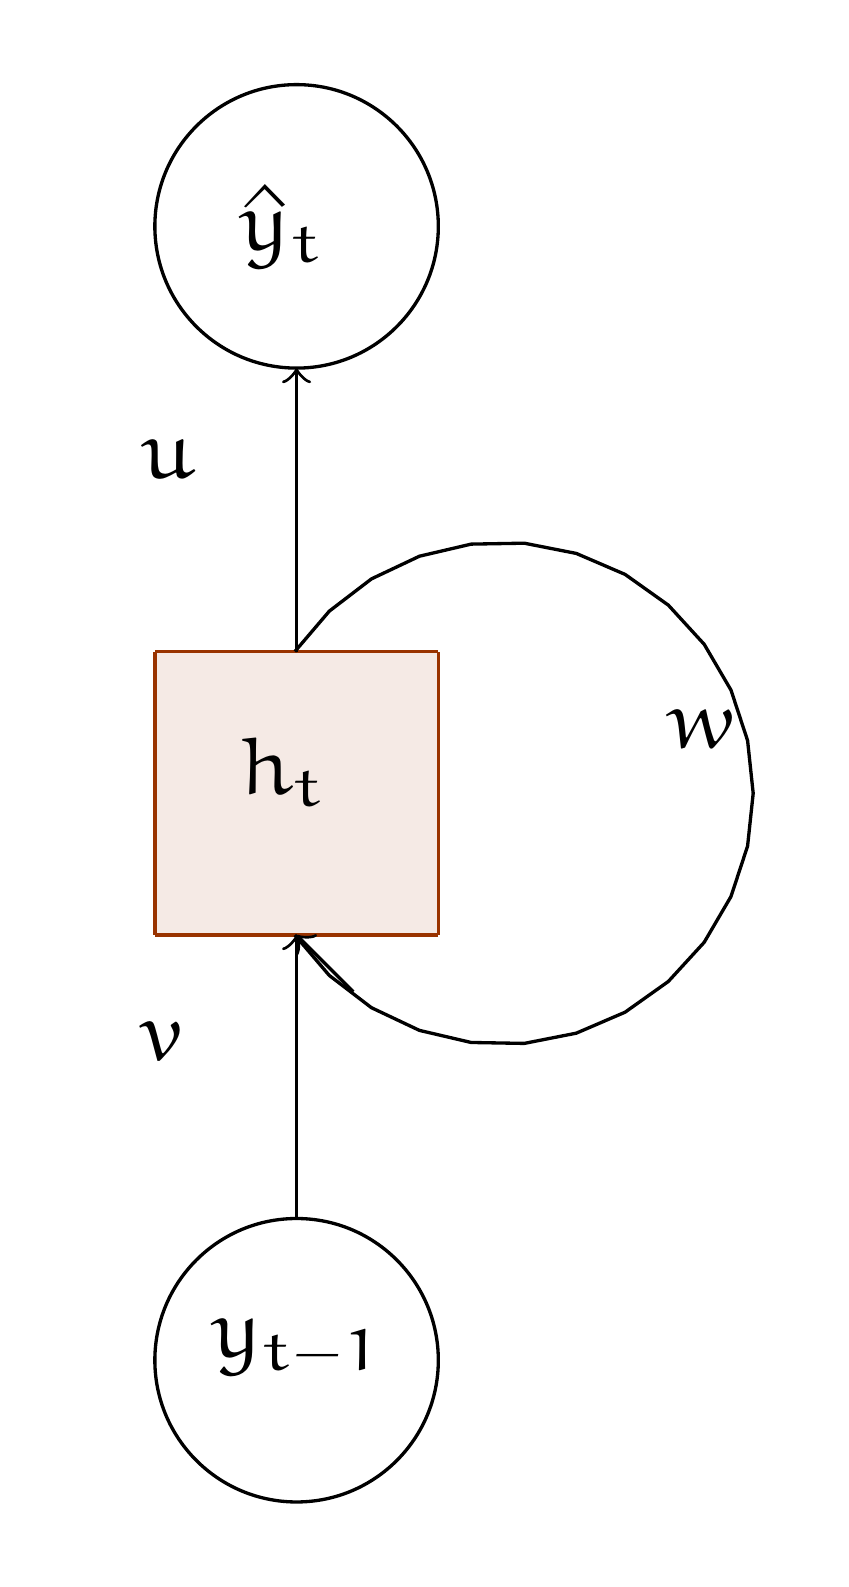
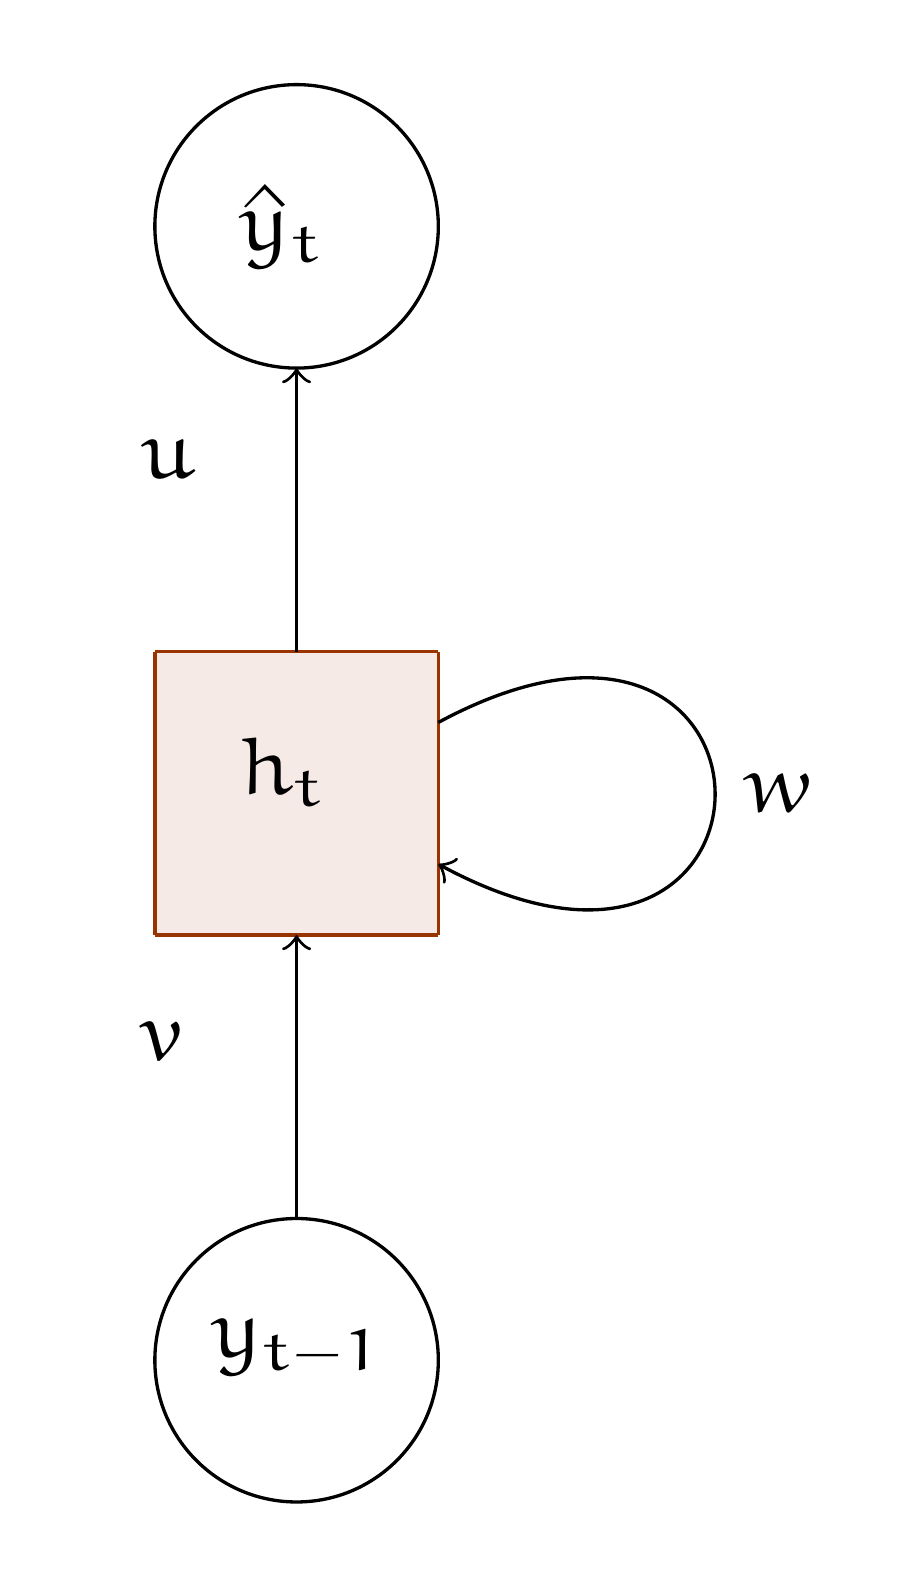
fix

diff --git a/images/problem_set_07/img01_arima.tex b/images/problem_set_07/img01_arima.tex
@@ -43,15 +43,18 @@
 \begin{document}
 	\definecolor{zzttqq}{rgb}{0.6,0.2,0.}
 	\begin{tikzpicture}[scale=0.6]
-			\draw (1.5,3.) circle (1.cm);
-			\draw (6.5,3.) circle (1.cm);
-			\draw (4.,10.) circle (1.cm);
-			\draw [->] (2.03,3.85) -- (3.47,9.15);
-			\draw [->] (5.97,3.85) -- (4.53,9.15);
-			\draw (0.7,3.5) node[anchor=north west] {$y_{t-1}$};
-			\draw (6.1,3.5) node[anchor=north west] {$1$};
-			\draw (3.4,10.5) node[anchor=north west] {$\hat y_t$};
-			\draw (1.5,7.3) node[anchor=north west] {$w$};
-			\draw (5.7,7.3) node[anchor=north west] {$b$};
+			\fill[line width=2.pt,color=zzttqq,fill=zzttqq,fill opacity=0.10000000149011612] (2.,8.) -- (2.,6.) -- (4.,6.) -- (4.,8.) -- cycle;
+			\draw  (3.,3.) circle (1.cm);
+			\draw [color=zzttqq] (2.,8.)-- (2.,6.);
+			\draw [color=zzttqq] (2.,6.)-- (4.,6.);
+			\draw [color=zzttqq] (4.,6.)-- (4.,8.);
+			\draw [color=zzttqq] (4.,8.)-- (2.,8.);
+			\draw (3,11) circle (1.cm);
+			\draw [->] (3,4) -- (3,6); 
+			\draw [->] (3,8) -- (3,10);
+			\draw (2.2,3.5) node[anchor=north west] {$y_{t-1}$};
+			\draw (2.4,11.5) node[anchor=north west] {$y_t$};
+			\draw (1.7,9.7) node[anchor=north west] {$w$};
+			\draw (1.7,5.6) node[anchor=north west] {$w$};
 	\end{tikzpicture}
 \end{document}

diff --git a/images/problem_set_07/img02_rnn.tex b/images/problem_set_07/img02_rnn.tex
@@ -52,11 +52,10 @@
 			\draw (3,11) circle (1.cm);
 			\draw [->] (3,4) -- (3,6); 
 			\draw [->] (3,8) -- (3,10);
-			\draw [shift={(4.45,7.)}]  plot[domain=-2.541806576912956:2.541806576912956,variable=\t]({1.*1.7715861960215864*cos(\t r)+0.*1.7715861960215864*sin(\t r)},{0.*1.7715861960215864*cos(\t r)+1.*1.7715861960215864*sin(\t r)});
-			\draw [->] (3.4,5.6) -- (3,6.);
+			\draw [->] (4,7.5) .. controls (6.6,8.9) and (6.6,5.1) .. (4,6.5);
 			\draw (2.2,3.5) node[anchor=north west] {$y_{t-1}$};
 			\draw (2.4,11.5) node[anchor=north west] {$\hat y_t$};
-			\draw (6.3,7.8) node[anchor=north east] {$0.5$};
+			\draw (5.95,7) node[anchor=west] {$0.5$};
 			\draw (2.4,7.6) node[anchor=north west] {$h_t$};
 			\draw (1.7,9.7) node[anchor=north west] {$0.5$};
 			\draw (1.7,5.6) node[anchor=north west] {$0.5$};

diff --git a/images/problem_set_07/img01_rnn.tex b/images/problem_set_07/img01_rnn.tex
@@ -52,11 +52,10 @@
 			\draw (3,11) circle (1.cm);
 			\draw [->] (3,4) -- (3,6); 
 			\draw [->] (3,8) -- (3,10);
-			\draw [shift={(4.45,7.)}]  plot[domain=-2.541806576912956:2.541806576912956,variable=\t]({1.*1.7715861960215864*cos(\t r)+0.*1.7715861960215864*sin(\t r)},{0.*1.7715861960215864*cos(\t r)+1.*1.7715861960215864*sin(\t r)});
-			\draw [->] (3.4,5.6) -- (3,6.);
+			\draw [->] (4,7.5) .. controls (6.6,8.9) and (6.6,5.1) .. (4,6.5);
 			\draw (2.2,3.5) node[anchor=north west] {$y_{t-1}$};
 			\draw (2.4,11.5) node[anchor=north west] {$\hat y_t$};
-			\draw (6.3,7.8) node[anchor=north east] {$w$};
+			\draw (5.95,7) node[anchor=west] {$w$};
 			\draw (2.4,7.6) node[anchor=north west] {$h_t$};
 			\draw (1.7,9.7) node[anchor=north west] {$u$};
 			\draw (1.7,5.6) node[anchor=north west] {$v$};
